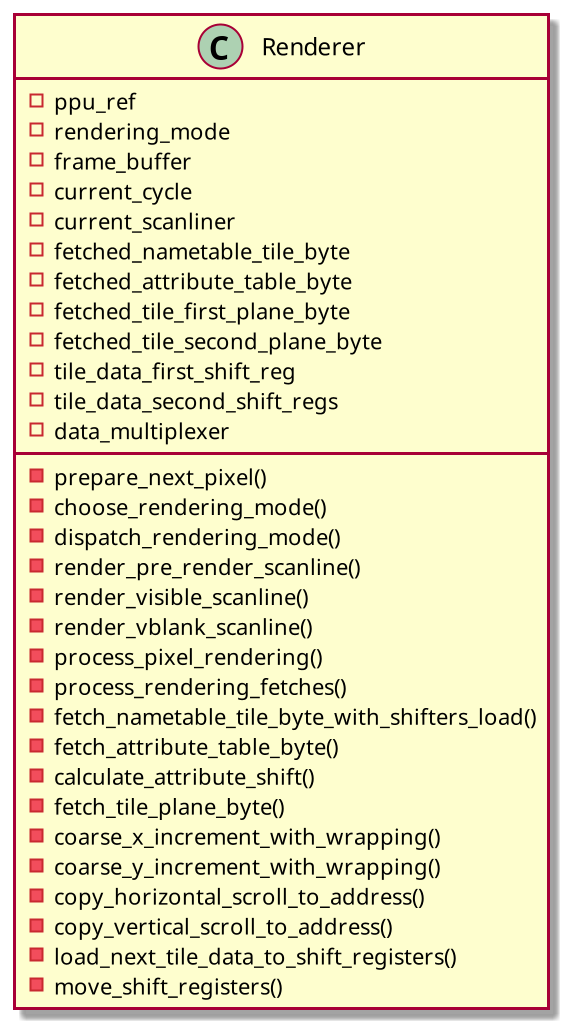
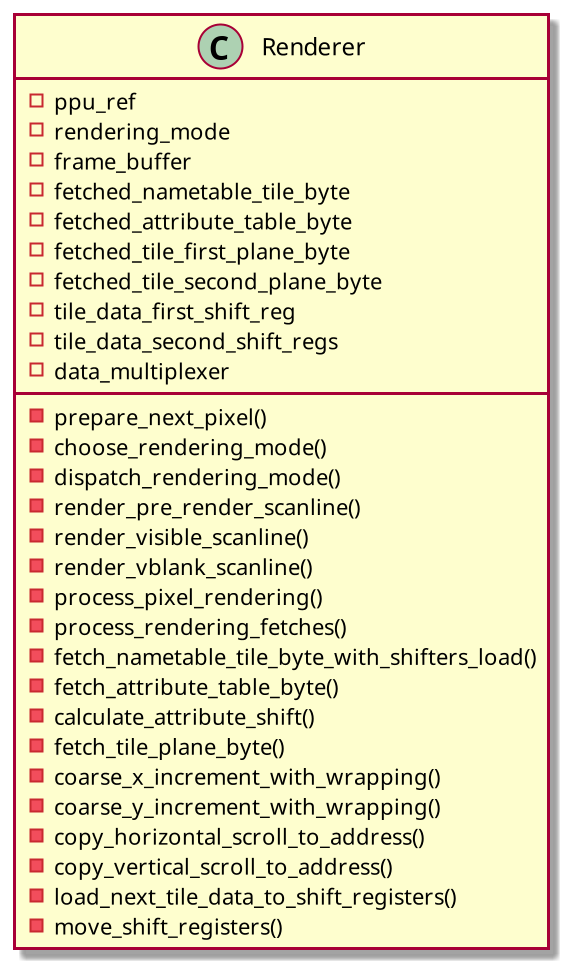
Remove current_cycle and current_scanline fields from Renderer

Changed region(s): [[0.0296, 0.0, 0.9477, 0.9856]]

diff --git a/src/ppu/renderer.cpp b/src/ppu/renderer.cpp
@@ -73,11 +73,8 @@ Renderer::Renderer(PPU& ppu_ref) : ppu_ref{ppu_ref}
 // Process rendering //
 ///////////////////////
 
-void Renderer::prepare_next_pixel(int ppu_current_cycle, int ppu_current_scanline)
+void Renderer::prepare_next_pixel()
 {
-    current_cycle = ppu_current_cycle;
-    current_scanline = ppu_current_scanline;
-
     choose_rendering_mode();
     dispatch_rendering_mode();
     process_pixel_rendering();
@@ -85,13 +82,13 @@ void Renderer::prepare_next_pixel(int ppu_current_cycle, int ppu_current_scanlin
 
 void Renderer::choose_rendering_mode()
 {
-    if (current_scanline >= 0 && current_scanline < post_render_scanline_number)
+    if (ppu_ref.current_scanline >= 0 && ppu_ref.current_scanline < post_render_scanline_number)
         rendering_mode = RenderingMode::visible_scanline;
-    else if (current_scanline == post_render_scanline_number)
+    else if (ppu_ref.current_scanline == post_render_scanline_number)
         rendering_mode = RenderingMode::post_render_scanline;
-    else if (current_scanline > post_render_scanline_number && current_scanline < pre_render_scanline_number)
+    else if (ppu_ref.current_scanline > post_render_scanline_number && ppu_ref.current_scanline < pre_render_scanline_number)
         rendering_mode = RenderingMode::vblank_scanline;
-    if (current_scanline == pre_render_scanline_number)
+    if (ppu_ref.current_scanline == pre_render_scanline_number)
         rendering_mode = RenderingMode::pre_render_scanline;
 }
 
@@ -108,34 +105,34 @@ void Renderer::dispatch_rendering_mode()
 
 void Renderer::render_pre_render_scanline()
 {
-    if (current_cycle == clear_ppu_status_cycle)
+    if (ppu_ref.current_cycle == clear_ppu_status_cycle)
         ppu_ref.ppu_status.word = 0x00;
 
     render_visible_scanline();
 
-    if (current_cycle > vertical_scroll_copy_cycle_start && current_cycle < vertical_scroll_copy_cycle_end)
+    if (ppu_ref.current_cycle > vertical_scroll_copy_cycle_start && ppu_ref.current_cycle < vertical_scroll_copy_cycle_end)
         copy_vertical_scroll_to_address();
 }
 
 void Renderer::render_visible_scanline()
 {
-    if ((current_cycle > 0 && current_cycle < horizontal_scroll_copy_cycle)
-        || (current_cycle > next_tile_fetches_cycle_start && current_cycle < next_tile_fetches_cycle_end))
+    if ((ppu_ref.current_cycle > 0 && ppu_ref.current_cycle < horizontal_scroll_copy_cycle)
+        || (ppu_ref.current_cycle > next_tile_fetches_cycle_start && ppu_ref.current_cycle < next_tile_fetches_cycle_end))
         process_rendering_fetches();
 
-    if (current_cycle == visible_screen_width)
+    if (ppu_ref.current_cycle == visible_screen_width)
         coarse_y_increment_with_wrapping();
 
-    if (current_cycle == horizontal_scroll_copy_cycle)
+    if (ppu_ref.current_cycle == horizontal_scroll_copy_cycle)
         copy_horizontal_scroll_to_address();
 
-    if (current_cycle == next_tile_fetches_cycle_end || current_cycle == garbage_nametable_fetch_cycle)
+    if (ppu_ref.current_cycle == next_tile_fetches_cycle_end || ppu_ref.current_cycle == garbage_nametable_fetch_cycle)
         fetched_nametable_tile_byte = fetch_nametable_tile_byte_with_shifters_load();
 }
 
 void Renderer::render_vblank_scanline()
 {
-    if (current_scanline == vblank_scanline_number && current_cycle == set_vblank_flag_cycle) {
+    if (ppu_ref.current_scanline == vblank_scanline_number && ppu_ref.current_cycle == set_vblank_flag_cycle) {
         ppu_ref.ppu_status.flag.vblank_start = 1;
 
         if (ppu_ref.ppu_controller.flag.generate_nmi)
@@ -161,8 +158,8 @@ void Renderer::process_pixel_rendering()
 
     const auto final_color = PPUColors::available_colors.at(ppu_ref.read_from_bus(address_to_read));
 
-    const auto x_coord = current_cycle - 1;
-    const auto y_coord = current_scanline;
+    const auto x_coord = ppu_ref.current_cycle - 1;
+    const auto y_coord = ppu_ref.current_scanline;
 
     if (check_for_pixel_within_visible_screen(x_coord, y_coord)) {
         const auto pixel_index {y_coord * visible_screen_width + x_coord};
@@ -178,7 +175,7 @@ void Renderer::process_pixel_rendering()
 // https://www.nesdev.org/wiki/PPU_scrolling#Tile_and_attribute_fetching
 void Renderer::process_rendering_fetches()
 {
-    const auto subcycle_dot {current_cycle % fetching_subcycle_size};
+    const auto subcycle_dot {ppu_ref.current_cycle % fetching_subcycle_size};
 
     move_shift_registers();
 

diff --git a/include/ppu/renderer.h b/include/ppu/renderer.h
@@ -24,9 +24,6 @@ private:
     RenderingMode rendering_mode {RenderingMode::pre_render_scanline};
     std::vector<sf::RectangleShape> frame_buffer {};
 
-    int  current_cycle {0};
-    int  current_scanline {0};
-
     uint8_t fetched_nametable_tile_byte {0x00};
     uint8_t fetched_attribute_table_byte {0x00};
     uint8_t fetched_tile_first_plane_byte {0x00};
@@ -37,7 +34,7 @@ private:
     uint16_t data_multiplexer {0x0000};
 
 
-    void prepare_next_pixel(int ppu_current_cycle, int ppu_current_scanline);
+    void prepare_next_pixel();
     void choose_rendering_mode();
     void dispatch_rendering_mode();
     void render_pre_render_scanline();

diff --git a/src/ppu/ppu.cpp b/src/ppu/ppu.cpp
@@ -68,7 +68,7 @@ void PPU::perform_cycle(bool debug_mode)
     if (debug_mode)
         log_debug_info();
 
-    renderer.prepare_next_pixel(current_cycle, current_scanline);
+    renderer.prepare_next_pixel();
 
     current_cycle++;
 
